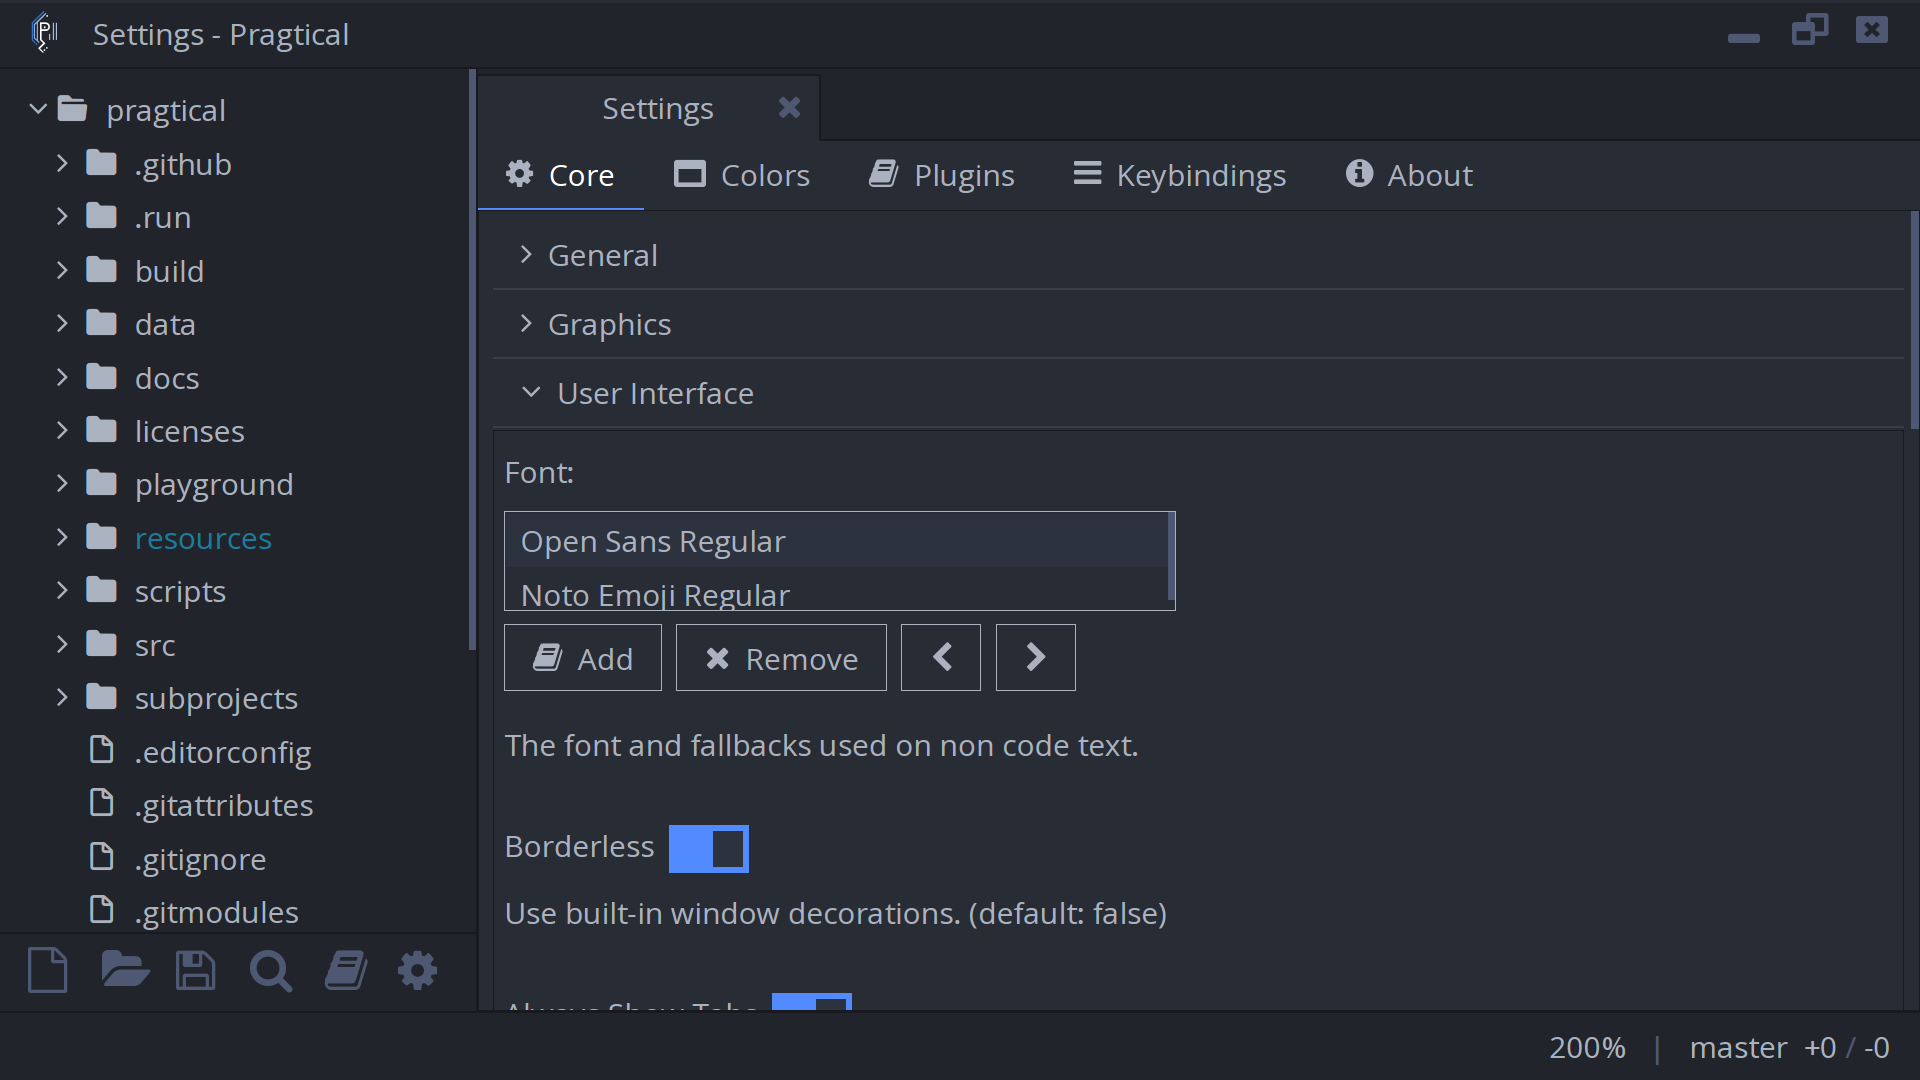
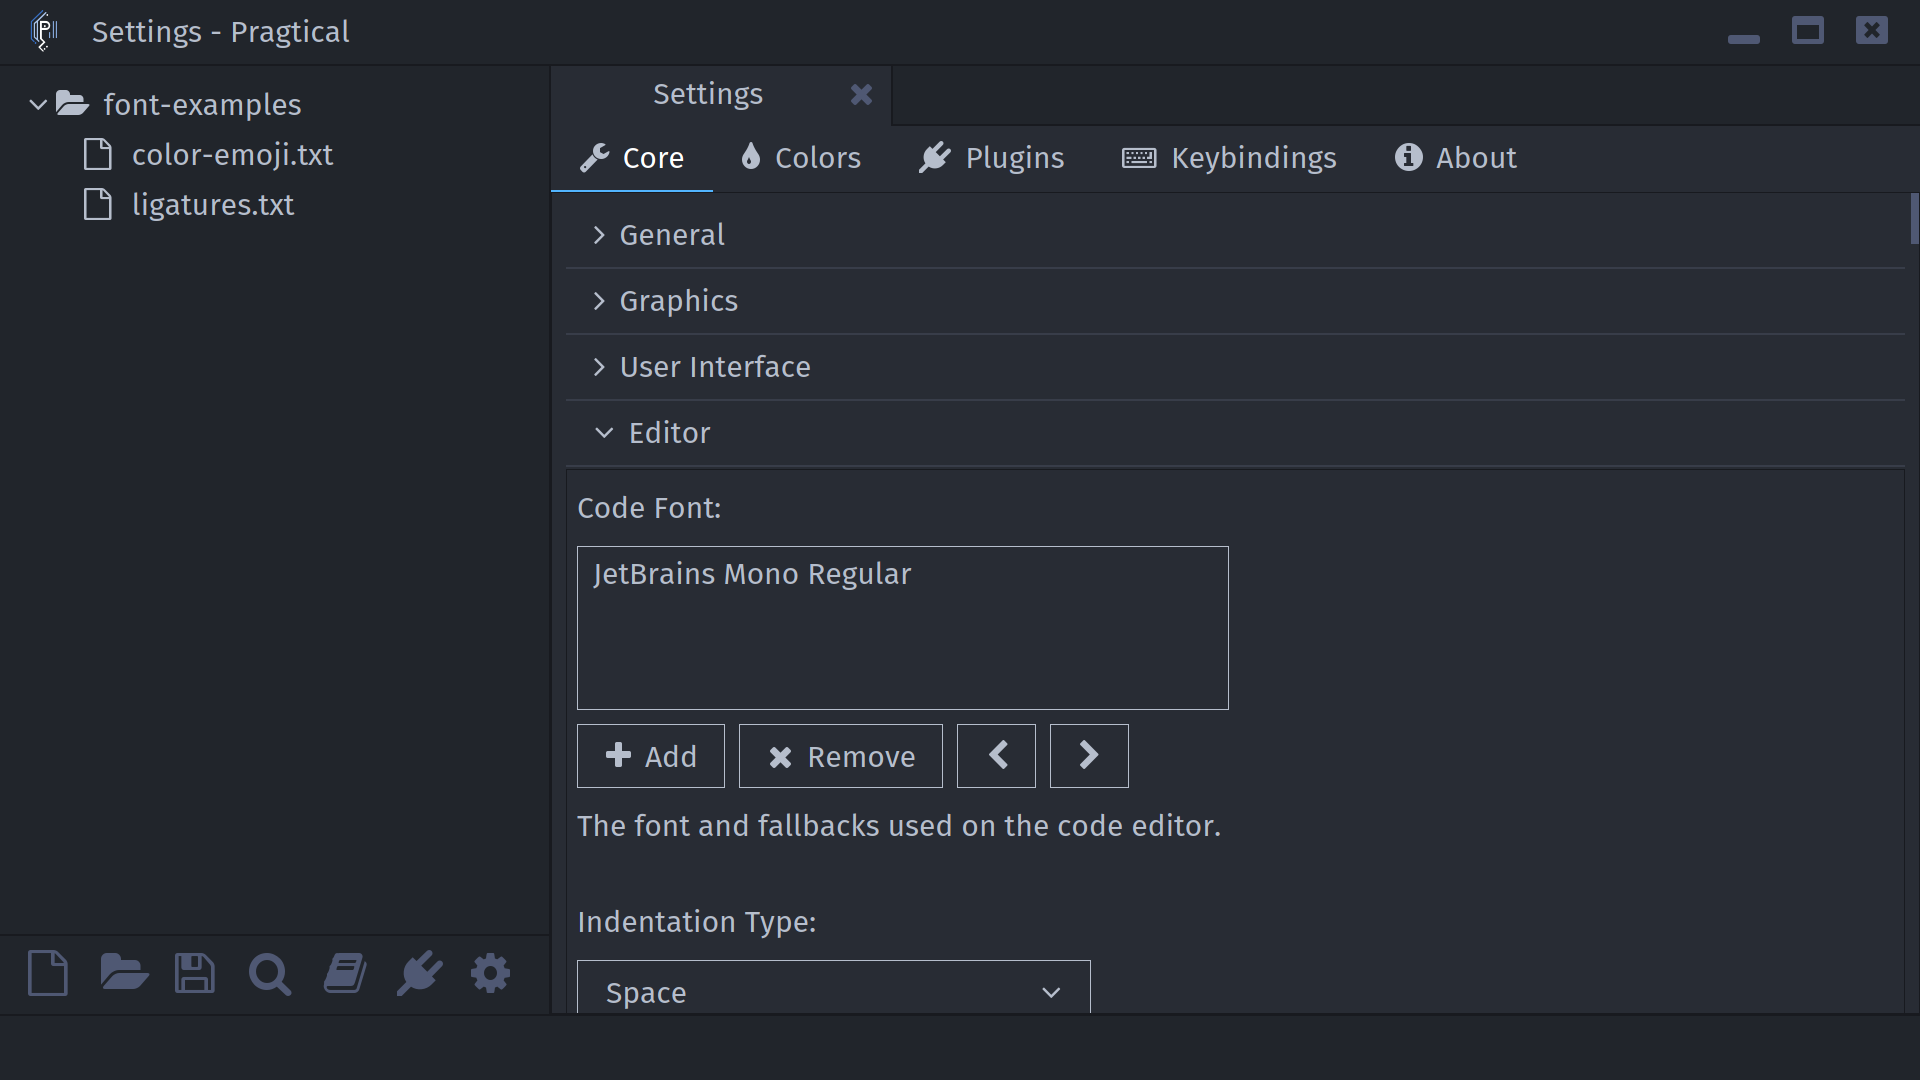
Document font ligatures and color emoji
Explain how to enable ligatures and configure Noto Color Emoji
fallbacks through settings or Lua. Place the guides next to
configuration and link them from the introduction.

Refresh the font screenshots using One Dark at 200% scale.

diff --git a/docs/user-guide/color-emoji.md b/docs/user-guide/color-emoji.md
@@ -1,0 +1,112 @@
+---
+sidebar_position: 2.2
+description: Download a color emoji font and configure it as a fallback in Pragtical.
+---
+
+import Tabs from '@theme/Tabs';
+import TabItem from '@theme/TabItem';
+
+# Color Emoji
+
+Pragtical supports color emoji in documents and interface text. To enable them,
+add a color emoji font after your regular text font in the fallback list.
+The regular font continues to render code, while the fallback supplies missing
+emoji characters.
+
+![Color emoji rendered with Noto-COLRv1.ttf in Pragtical][emoji]
+
+## Download the Font
+
+We recommend **Noto Color Emoji**, specifically the `Noto-COLRv1.ttf` variant
+used in the screenshots. It is available from the official [Noto Emoji] project:
+
+**[Download Noto-COLRv1.ttf][download]**
+
+Create a `fonts` folder inside your [user directory](configuration.md#location)
+and place the downloaded file there. For a standard Linux configuration,
+the resulting path is `~/.config/pragtical/fonts/Noto-COLRv1.ttf`.
+Pragtical searches this folder for fonts, so a system-wide installation is
+not required.
+
+## Add the Fallback
+
+<Tabs groupId="configuration">
+  <TabItem value="user-module" label="User Module" default>
+
+Open your [user module](configuration.md#user-module) and create a font group:
+
+```lua
+local style = require "core.style"
+
+style.code_font = renderer.font.group {
+  renderer.font.load(
+    DATADIR .. "/fonts/JetBrainsMono-Regular.ttf",
+    15 * SCALE,
+    { ligatures = true }
+  ),
+  renderer.font.load(
+    USERDIR .. "/fonts/Noto-COLRv1.ttf",
+    15 * SCALE,
+    { ligatures = true }
+  )
+}
+```
+
+Keep your preferred code font first and add any other fallback fonts as
+additional entries. Load each font separately: font groups cannot be nested.
+
+To display color emoji in interface text as well, configure `style.font`:
+
+```lua
+style.font = renderer.font.group {
+  renderer.font.load(DATADIR .. "/fonts/FiraSans-Regular.ttf", 15 * SCALE),
+  renderer.font.load(
+    USERDIR .. "/fonts/Noto-COLRv1.ttf",
+    15 * SCALE,
+    { ligatures = true }
+  )
+}
+```
+
+  </TabItem>
+  <TabItem value="settings-ui" label="Settings UI">
+
+1. Open Settings with the `ui:settings` command.
+2. In **Core > Editor > Code Font**, press **Add**.
+3. In the Font Selector, press **All** and search for **Noto Color Emoji**.
+   Select the entry whose path ends in `Noto-COLRv1.ttf`.
+4. Enable **Ligatures** and press **Save**.
+5. Keep your regular code font first and **Noto Color Emoji Regular** after it.
+   Use the arrow buttons to adjust the fallback order.
+
+![Noto Color Emoji after JetBrains Mono in the Code Font list][font-order]
+
+To enable emoji in interface text too, repeat these steps for
+**Core > User Interface > Font**.
+
+If the font does not appear in the picker, use
+**Core > General > Clear Fonts Cache**, wait for the scan to finish and try again.
+
+The Settings UI shares size and font options across the entire fallback list.
+Use the User Module to control ligatures for each font separately.
+
+  </TabItem>
+</Tabs>
+
+## Emoji Sequences and Fallback Order
+
+Color rendering does not require ligatures for individual emoji.
+Enabling [ligatures](font-ligatures.md) also allows the emoji font to combine
+supported sequences, such as joined emoji. Every character in a sequence must
+be handled by the same font for it to join, so results depend on font coverage
+and fallback order.
+
+If an emoji appears monochrome, an earlier font may already provide that
+character. Move Noto Color Emoji ahead of other symbol or emoji fallbacks.
+If characters appear as boxes, check that the font loaded successfully and
+that you downloaded the color variant named above.
+
+[emoji]: /img/user-guide/settings/fonts/color-emoji.png
+[font-order]: /img/user-guide/settings/fonts/font-order.png
+[Noto Emoji]: https://github.com/googlefonts/noto-emoji
+[download]: https://raw.githubusercontent.com/googlefonts/noto-emoji/main/2D/fonts/Noto-COLRv1.ttf

diff --git a/docs/user-guide/font-ligatures.md b/docs/user-guide/font-ligatures.md
@@ -1,0 +1,78 @@
+---
+sidebar_position: 2.1
+description: Enable font ligatures using Pragtical's Settings UI or Lua configuration.
+---
+
+import Tabs from '@theme/Tabs';
+import TabItem from '@theme/TabItem';
+
+# Font Ligatures
+
+Pragtical supports font ligatures, allowing a compatible font to join characters
+such as `!=`, `=>` and `>=` into a single visual symbol. This only changes how
+the text is rendered: editing, copying and saving still use the original
+characters.
+
+Ligatures are disabled by default. The bundled **JetBrains Mono** font supports
+them, so you can try the feature without downloading another font.
+
+![JetBrains Mono rendering operator ligatures in Pragtical][ligatures]
+
+## Enable Ligatures
+
+<Tabs groupId="configuration">
+  <TabItem value="user-module" label="User Module" default>
+
+Open your [user module](configuration.md#user-module) and enable the `ligatures`
+option when loading the code font:
+
+```lua
+local style = require "core.style"
+
+style.code_font = renderer.font.load(
+  DATADIR .. "/fonts/JetBrainsMono-Regular.ttf",
+  15 * SCALE,
+  { ligatures = true }
+)
+```
+
+Replace the path to use another font with ligatures. Set `ligatures = false`
+to disable them again.
+
+When using `renderer.font.group`, set the option on each font that should use
+ligatures. The [color emoji guide](color-emoji.md) includes a fallback example.
+
+  </TabItem>
+  <TabItem value="settings-ui" label="Settings UI">
+
+1. Open Settings with the `ui:settings` command.
+2. In the **Core** tab, expand **Editor** and find **Code Font**.
+3. Double-click **JetBrains Mono Regular**, or the font you want to edit.
+4. Check **Ligatures** in the Font Selector and press **Save**.
+
+![The Code Font list under Core, Editor][font-option]
+
+![Font Selector with the Ligatures checkbox enabled][font-selector]
+
+The size and font options apply to every font in this list. To configure
+ligatures separately for individual fallback fonts, use the User Module.
+
+  </TabItem>
+</Tabs>
+
+## Font Support
+
+The available ligatures depend on the font. Enabling the option will not add
+ligatures to a font that does not provide them. Ligatures also stay within
+the same font and rendered text run, so syntax highlighting or a fallback
+font boundary can keep a sequence from joining.
+
+For interface text, configure **Core > User Interface > Font** instead of
+**Code Font**, or assign the font to `style.font` in Lua.
+
+See the [renderer font options] for the complete API.
+
+[ligatures]: /img/user-guide/settings/fonts/font-ligatures.png
+[font-option]: /img/user-guide/settings/fonts/font-option.png
+[font-selector]: /img/user-guide/settings/fonts/font-selector.png
+[renderer font options]: /docs/api/renderer#rendererfontoptions

diff --git a/docs/intro.md b/docs/intro.md
@@ -125,6 +125,12 @@ graphical interface to adjust your preferences out of the box. But don't
 worry, configuring the editor through Lua will keep working because it is also
 pragtical 😉
 
+* **[Font Ligatures]** - enable ligatures on compatible fonts to render operators
+like `!=`, `=>` and `>=` as joined symbols, while keeping the original text intact.
+
+* **[Color Emoji]** - display emoji in full color by adding an emoji font to your
+font fallbacks, both for code and interface text.
+
 * **Encoding** - while UTF-8 has overtaken as the preferred encoding for text
 documents for its convenience, we can sometimes encounter a document in another
 encoding. Loading and saving documents with different encodings will be
@@ -161,6 +167,8 @@ local or remote images.
 
 [CLI]:                       /docs/user-guide/cli
 [Code Folding]:              /docs/user-guide/code-folding
+[Font Ligatures]:            /docs/user-guide/font-ligatures
+[Color Emoji]:               /docs/user-guide/color-emoji
 [Diff Viewer]:               /docs/user-guide/diff-viewer
 [Image Viewer]:              /docs/user-guide/image-viewer
 [Markdown Preview]:          /docs/user-guide/markdown-preview

diff --git a/docs/user-guide/configuration.md b/docs/user-guide/configuration.md
@@ -57,6 +57,10 @@ The settings plugin provides a GUI to configure Pragtical.
 
 Pragtical comes with JetBrains Mono and Fira Sans by default.
 
+You can also enable [font ligatures](font-ligatures.md) and add
+[color emoji](color-emoji.md). These guides include Settings UI instructions
+and Lua examples.
+
 To change the fonts used by the editor, you can change the
 variable `style.font` and `style.code_font`.
 These variables are responsible for the UI font and code
@@ -135,6 +139,10 @@ To change the hinting settings of the font, click on the dropdown
 to the right.
 The changes will be reflected automatically on the preview window.
 Press "Save" to add the font or "Cancel" to go back.
+
+To edit an existing font, double-click its entry in the list.
+The "Ligatures" checkbox enables shaping for fonts that support it.
+The size and font options in this dialog apply to all fonts in the list.
 
 If you have more than one fonts set up, you can change
 the fallback order by pressing the "‹" and "›" buttons.
